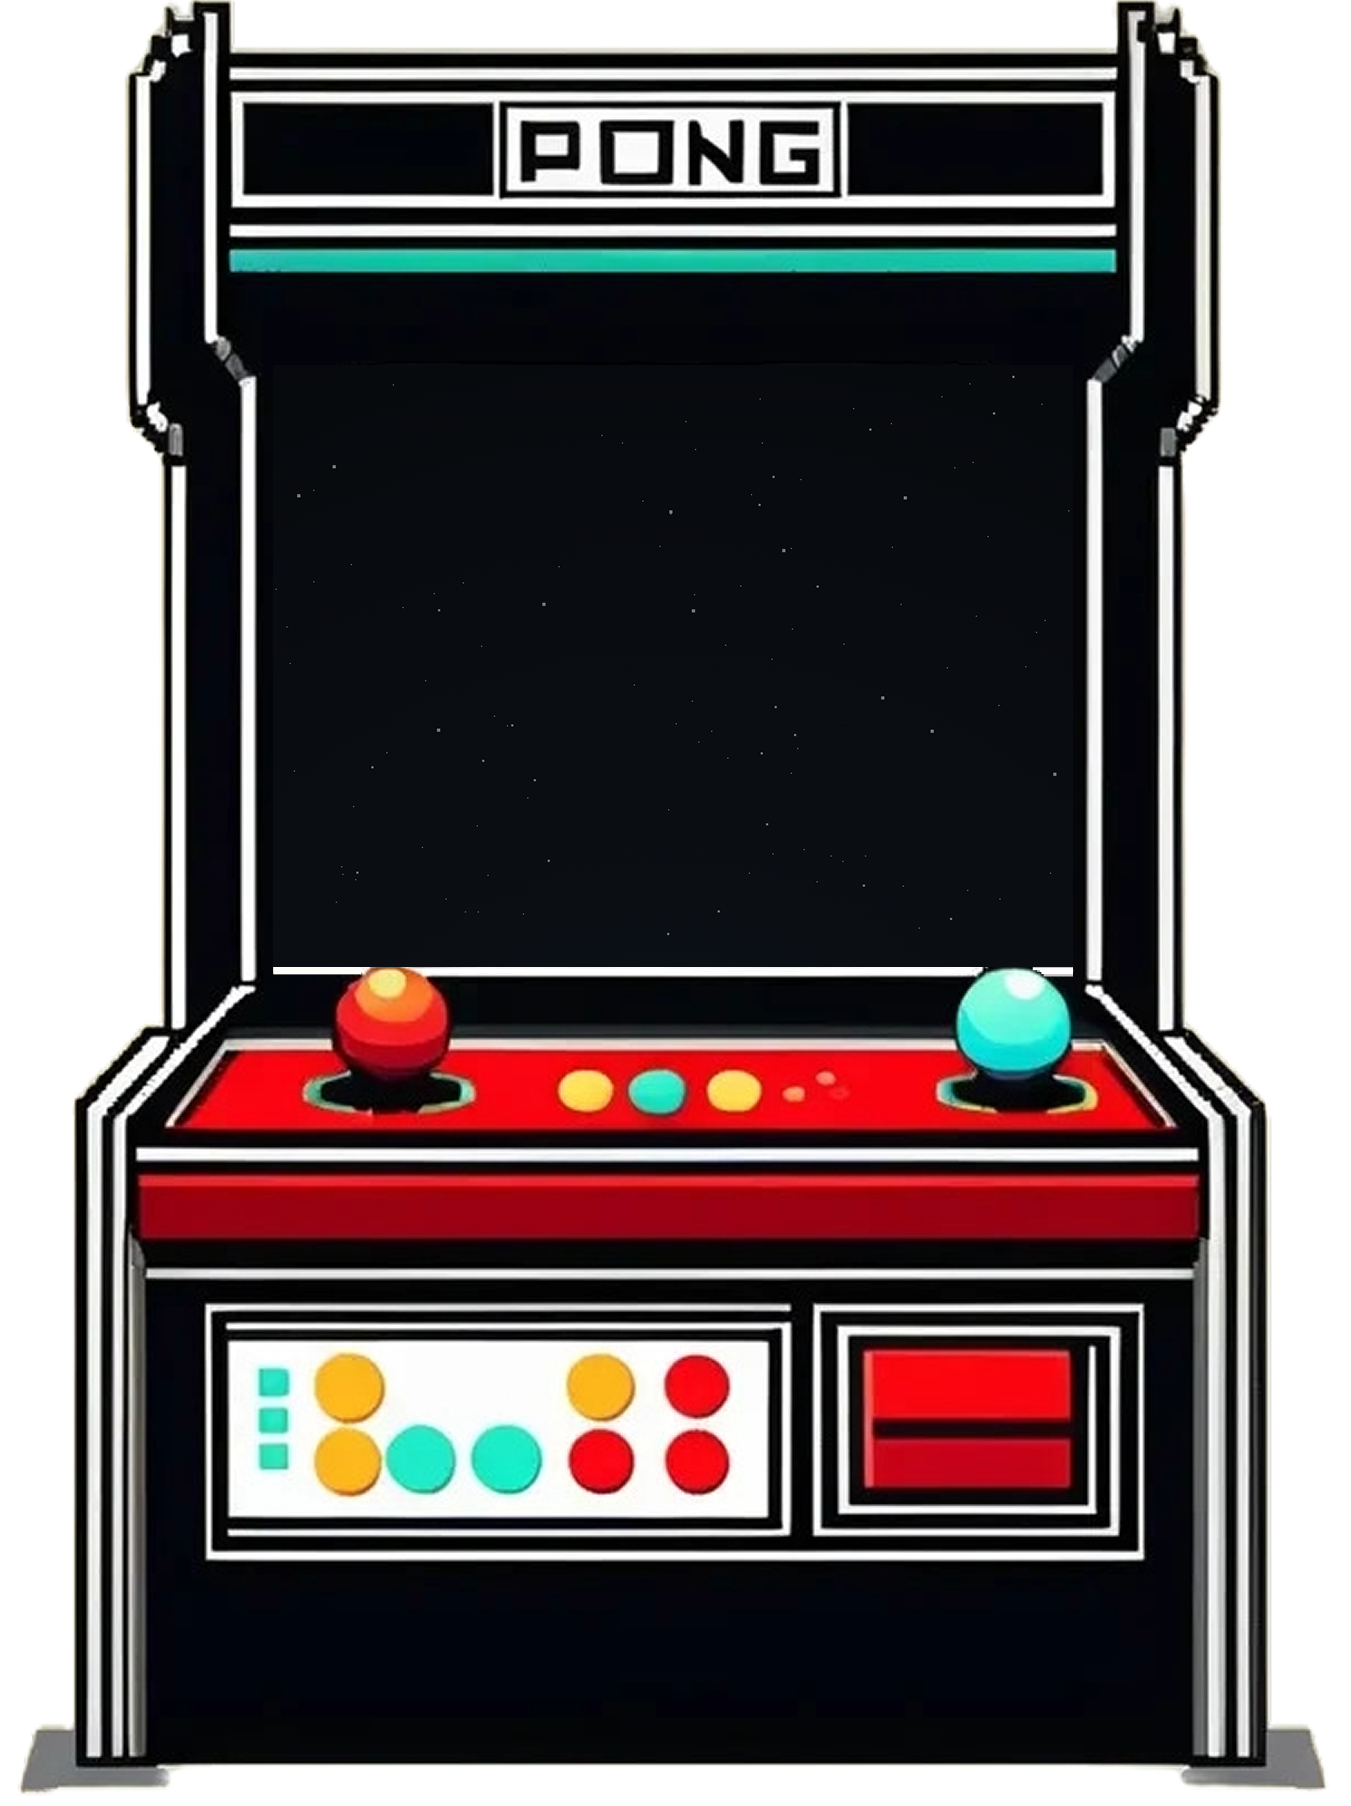
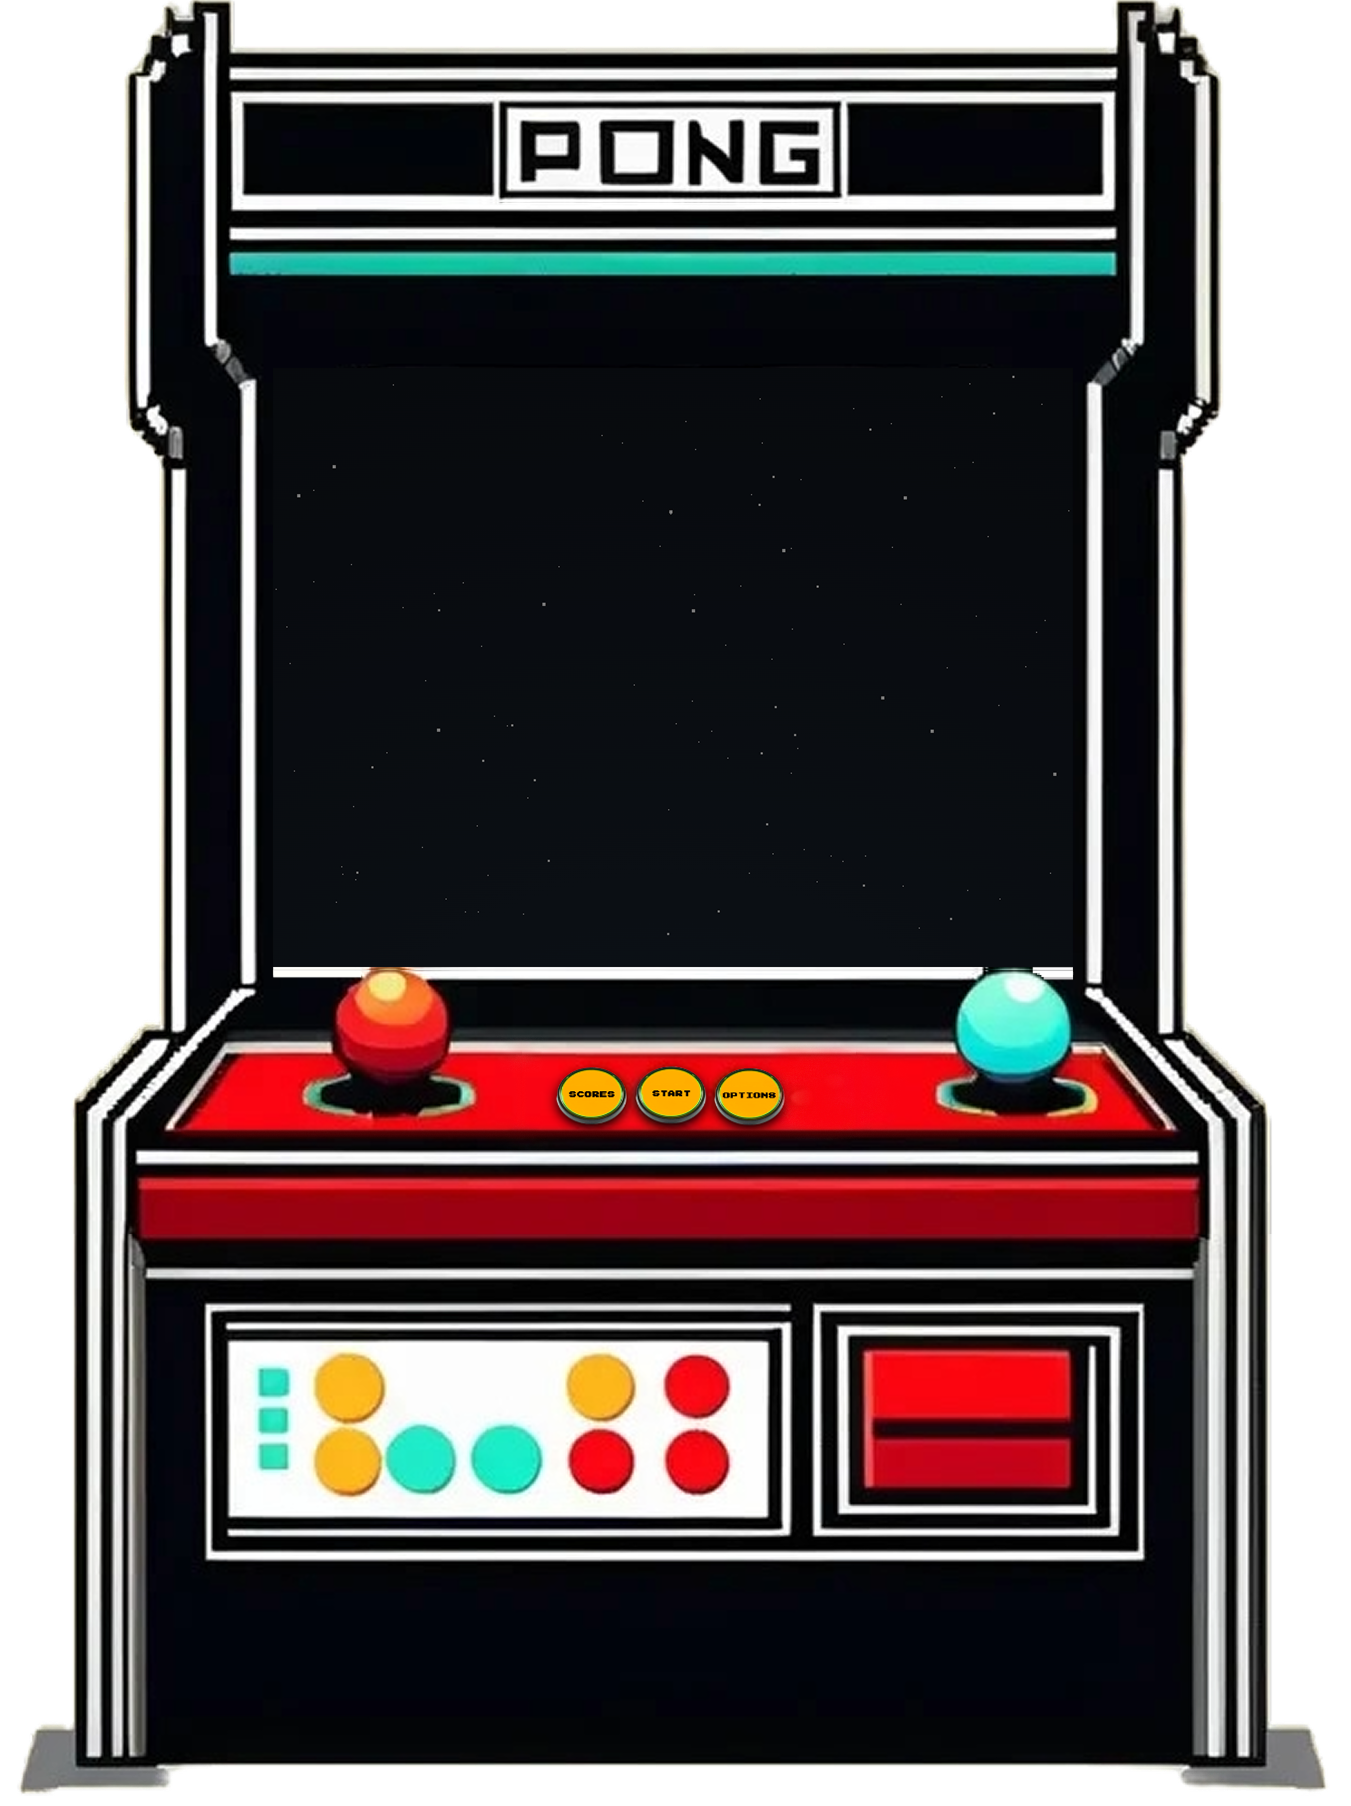
buttons added to gameMachine img THIS TOOK AGES

diff --git a/pong/templates/dashboard.html b/pong/templates/dashboard.html
@@ -33,7 +33,7 @@
 			<img src="/static/img/logout.png" alt="logoutImg" id="logoutImg" onclick="logOut()">
 		</div>
 		<h2 class="pix dashboard-heading text">Welcome to your dashboard</h1>
-		<img id="arcade" src="/static/img/gameMachine.png">
+		<img id="arcade" src="/static/img/gameMachineButtons.png">
 	</div>
 </body>
 </html>
